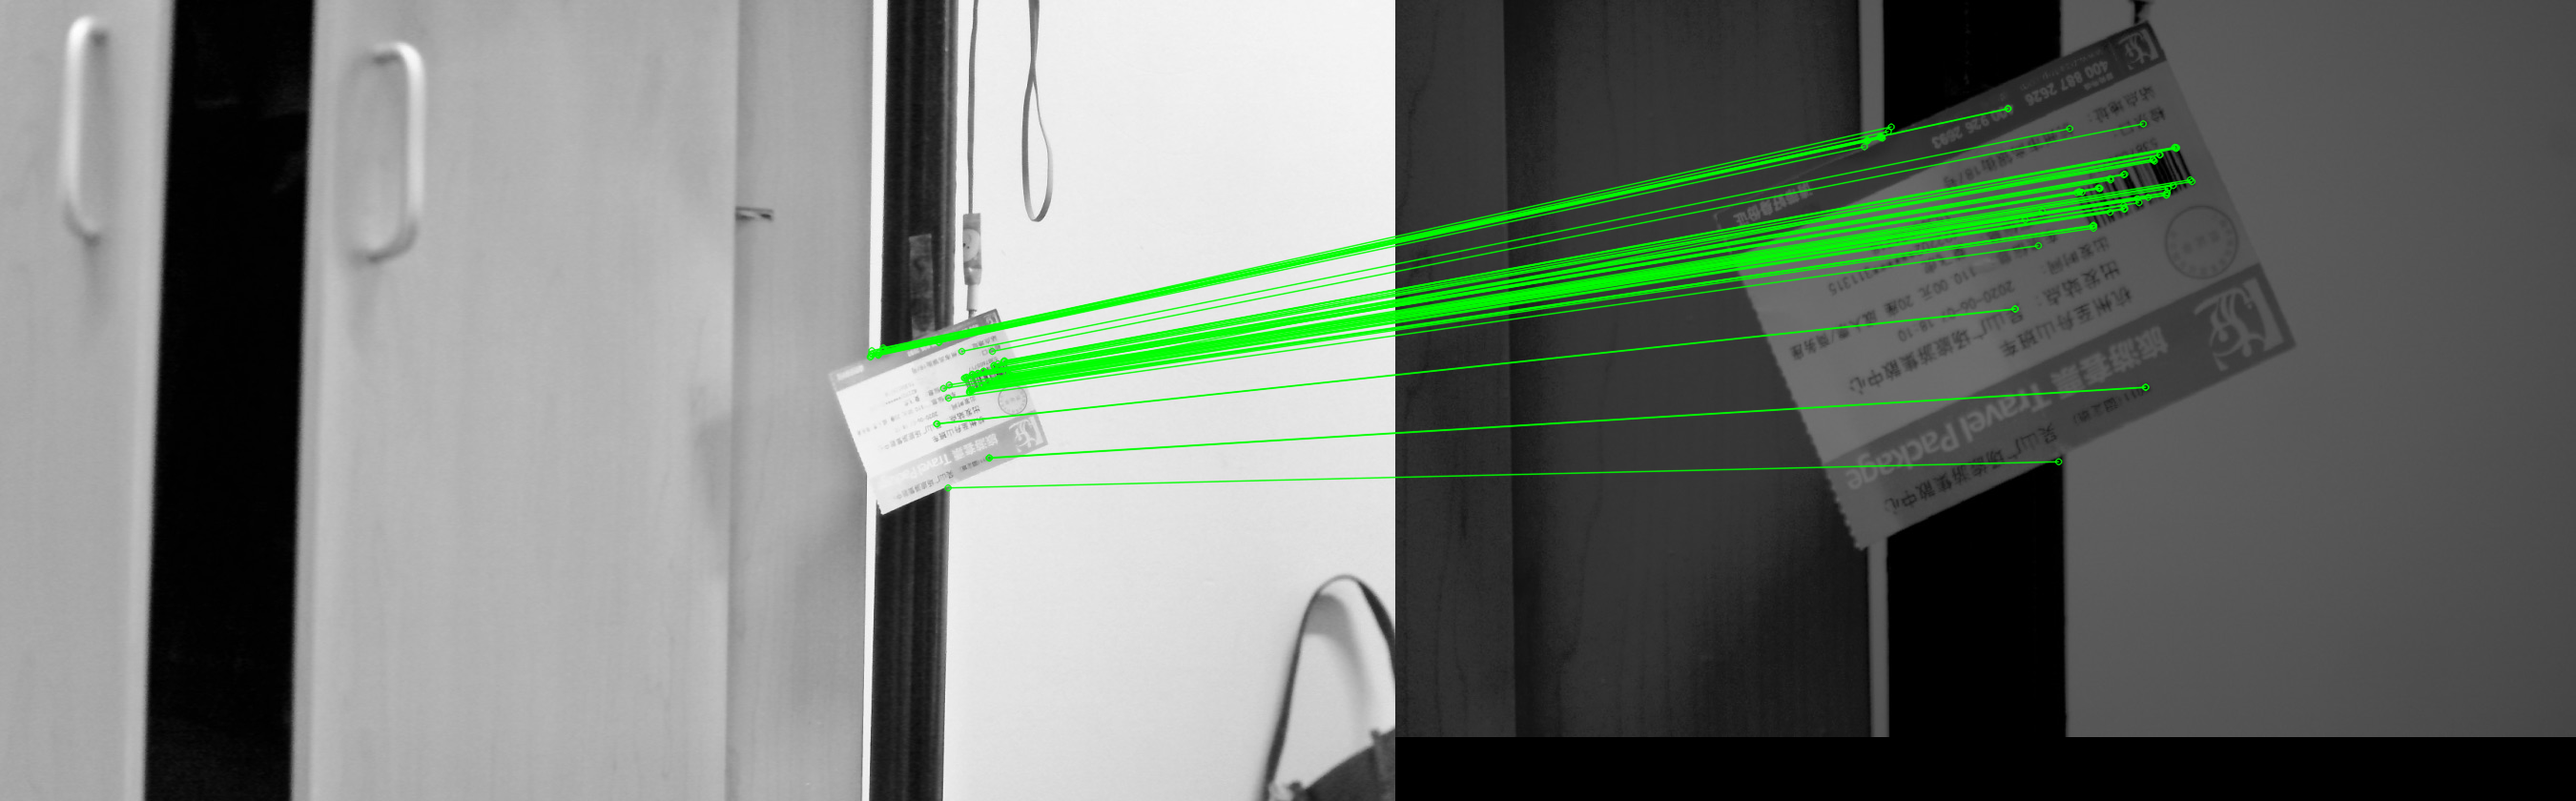
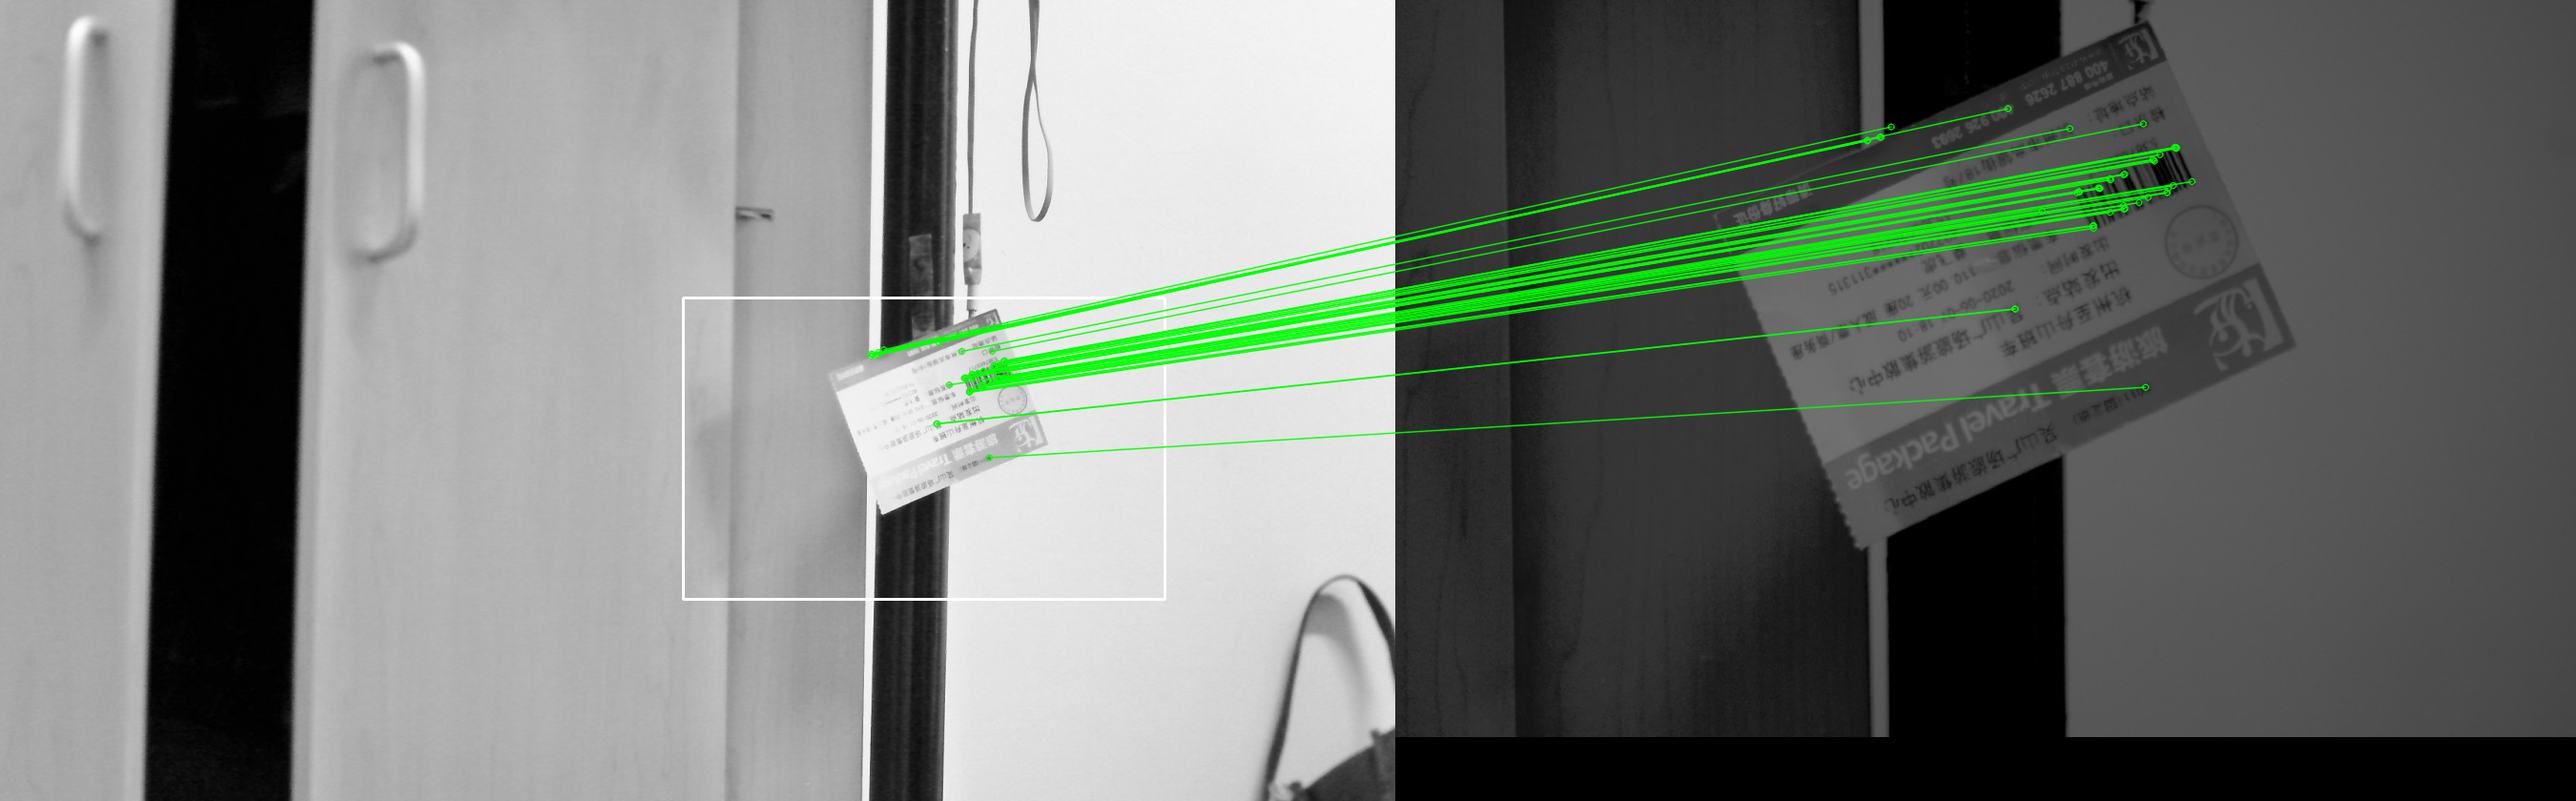
using ORB as a function

diff --git a/template_matching_demo.py b/template_matching_demo.py
@@ -1,75 +1,140 @@
 import numpy as np
 import cv2
-import pysift
 from matplotlib import pyplot as plt
 import logging
 import time
 
-logger = logging.getLogger(__name__)
-
 MIN_MATCH_COUNT = 10
-
-start = time.time()
-img1 = cv2.imread('1.jpg', 0)           # queryImage
-img2 = cv2.imread('2.jpg', 0)           # trainImage
-
-orb = cv2.ORB_create()
-
-kp1, des1 = orb.detectAndCompute(img1, None)
-kp2, des2 = orb.detectAndCompute(img2, None)
-
-# Initialize and use FLANN
 FLANN_INDEX_LSH = 6
-# index_params = dict(algorithm = FLANN_INDEX_KDTREE, trees = 5)
-
-index_params= dict(algorithm = FLANN_INDEX_LSH,
-                   table_number=6,
-                   key_size=12,
-                   multi_probe_level=1)
-
-search_params = dict(checks = 20)
-flann = cv2.FlannBasedMatcher(index_params, search_params)
-matches = flann.knnMatch(des1, des2, k=2)
-matchesMask = [[0, 0] for i in range(len(matches))]
 
 
-# store all the good matches as per Lowe's ratio test.
-good = []
-for m,n in matches:
-    if m.distance < 0.8*n.distance:
-        good.append(m)
+def main():
+    logger = logging.getLogger(__name__)
+    img1 = cv2.imread('1.jpg', 0)  # queryImage
+    img2 = cv2.imread('2.jpg', 0)  # trainImage
+    detect_small_img(img1, img2)
 
-if len(good)>MIN_MATCH_COUNT:
-    src_pts = np.float32([ kp1[m.queryIdx].pt for m in good ]).reshape(-1, 1, 2)
-    dst_pts = np.float32([ kp2[m.trainIdx].pt for m in good ]).reshape(-1, 1, 2)
 
-    M, mask = cv2.findHomography(src_pts, dst_pts, cv2.RANSAC, 50)
-    matchesMask = mask.ravel().tolist()
+def detect_small_img(img1,img2):
+    start = time.time()
+    h1, w1 = img1.shape
+    h2, w2 = img2.shape
 
-    h,w = img1.shape
-    pts = np.float32([[0, 0], [0, h-1], [w-1, h-1], [w-1, 0]]).reshape(-1, 1, 2)
-    dst = cv2.perspectiveTransform(pts,M)
+    orb = cv2.ORB_create()
 
-    img2 = cv2.polylines(img2,[np.int32(dst)],True,255,3, cv2.LINE_AA)
+    kp1, des1 = orb.detectAndCompute(img1, None)
+    kp2, des2 = orb.detectAndCompute(img2, None)
 
-else:
-    print("Not enough matches are found - %d/%d" % (len(good),MIN_MATCH_COUNT))
-    matchesMask = None
+    # Initialize and use FLANN
+    # index_params = dict(algorithm = FLANN_INDEX_KDTREE, trees = 5)
 
-draw_params = dict(matchColor = (0,255,0), # draw matches in green color
-                   singlePointColor = None,
-                   matchesMask = matchesMask, # draw only inliers
-                   flags = 2)
+    index_params = dict(algorithm=FLANN_INDEX_LSH,
+                        table_number=6,
+                        key_size=12,
+                        multi_probe_level=1)
 
-img3 = cv2.drawMatches(img1, kp1, img2, kp2, good, None, **draw_params)
+    search_params = dict(checks=50)
+    flann = cv2.FlannBasedMatcher(index_params, search_params)
+    matches = flann.knnMatch(des1, des2, k=2)
+    matchesMask = [[0, 0] for i in range(len(matches))]
 
-plt.imshow(img3, 'gray'),\
-plt.show()
+    # store all the good matches as per Lowe's ratio test.
+    good = []
+    flag = 0
+    avg_xl = 0
+    avg_yl = 0
+    avg_xr = 0
+    avg_yr = 0
+    count = 0
+    for m, n in matches:
+        if m.distance < 0.7 * n.distance:
+            good.append(m)
+            count += 1
+            avg_xl += kp1[m.queryIdx].pt[0]
+            avg_yl += kp1[m.queryIdx].pt[1]
+            avg_xr += kp2[m.trainIdx].pt[0]
+            avg_yr += kp2[m.trainIdx].pt[1]
+            if m.distance < 0.35 * n.distance:
+                if flag == 0:
+                    max = (m.queryIdx, m.trainIdx)
+                    min = (m.queryIdx, m.trainIdx)
+                    flag = 1
+                if kp1[m.queryIdx].pt[0] > kp1[max[0]].pt[0]:
+                    max = (m.queryIdx, m.trainIdx)
+                    # print(kp1[m.queryIdx].pt[0])
+                if kp1[m.queryIdx].pt[0] < kp1[min[0]].pt[0]:
+                    min = (m.queryIdx, m.trainIdx)
+                    # print(kp1[m.queryIdx].pt[0])
 
-cv2.imwrite('output.png', img3)
-end = time.time()
-time_cost = (end-start)*1000
-print("cost:%.4f ms" % time_cost)
+            # pt1 = kp1[m.queryIdx].pt  # trainIdx    是匹配之后所对应关键点的序号，第一个载入图片的匹配关键点序号
+            # pt2 = kp2[m.trainIdx].pt  # queryIdx  是匹配之后所对应关键点的序号，第二个载入图片的匹配关键点序号
+
+    avg_xl = avg_xl / count
+    avg_yl = avg_yl / count
+    avg_xr = avg_xr / count
+    avg_yr = avg_yr / count
+
+    print(avg_xl, avg_yl, avg_xr, avg_yr)
+    print(max[0], kp1[max[0]].pt, max[1], kp2[max[1]].pt)
+    print(min[0], kp1[min[0]].pt, min[1], kp2[min[1]].pt)
+
+    if len(good) > MIN_MATCH_COUNT:
+        src_pts = np.float32([kp1[m.queryIdx].pt for m in good]).reshape(-1, 1, 2)
+        dst_pts = np.float32([kp2[m.trainIdx].pt for m in good]).reshape(-1, 1, 2)
+
+        M, mask = cv2.findHomography(src_pts, dst_pts, cv2.RANSAC, 30)
+        matchesMask = mask.ravel().tolist()
+
+        # h,w = img1.shape
+        pts = np.float32([[0, 0], [0, h2 - 1], [w2 - 1, h2 - 1], [w2 - 1, 0]]).reshape(-1, 1, 2)
+        dst = cv2.perspectiveTransform(pts, M)
+        img2 = cv2.polylines(img2, [np.int32(dst)], True, 255, 3, cv2.LINE_AA)
+
+    else:
+        print("Not enough matches are found - %d/%d" % (len(good), MIN_MATCH_COUNT))
+        matchesMask = None
+
+    draw_params = dict(matchColor=(0, 255, 0),  # draw matches in green color
+                       singlePointColor=None,
+                       matchesMask=matchesMask,  # draw only inliers
+                       flags=2)
+
+    pt1 = kp1[max[0]].pt
+    pt2 = kp1[min[0]].pt
+    pt3 = kp2[max[1]].pt
+    pt4 = kp2[min[1]].pt
+
+    print(h1, w1, h2, w2)
+    dis_rate = np.sqrt((pt1[0] - pt2[0]) ** 2 + (pt1[1] - pt2[1]) ** 2) / np.sqrt(
+        (pt3[0] - pt4[0]) ** 2 + (pt3[1] - pt4[1]) ** 2)
+    ru_x = dis_rate * (w2 - avg_xr) + avg_xl
+    ru_y = dis_rate * (h2 - avg_yr) + avg_yl
+    ld_x = avg_xl - dis_rate * avg_xr
+    ld_y = avg_yl - dis_rate * avg_yr
+
+    print(dis_rate)
+    print(ru_x, ru_y)
+    cv2.rectangle(img1, (int(ru_x), int(ru_y)), (int(ld_x), int(ld_y)), (255, 255, 0), 2)
+    # cv2.rectangle(img2, (int(pt3[0]), int(pt3[1])), (int(pt4[0]), int(pt4[1])), (0, 0, 255), 2)
+    img3 = cv2.drawMatches(img1, kp1, img2, kp2, good, None, **draw_params)
+
+    end = time.time()
+    time_cost = (end - start) * 1000
+    print("cost:%.4f ms" % time_cost)
+
+    cv2.namedWindow('detector', cv2.WINDOW_NORMAL)
+    cv2.resizeWindow('detector', 800, 600)
+    cv2.imshow('detector', img3)
+    cv2.waitKey(0)
+    cv2.destroyAllWindows()
+
+    cv2.imwrite('output.png', img3)
+    # cv2.imwrite('output.png', img1)
+
+
+if __name__ == '__main__':
+    main()
+
 
 
 """
